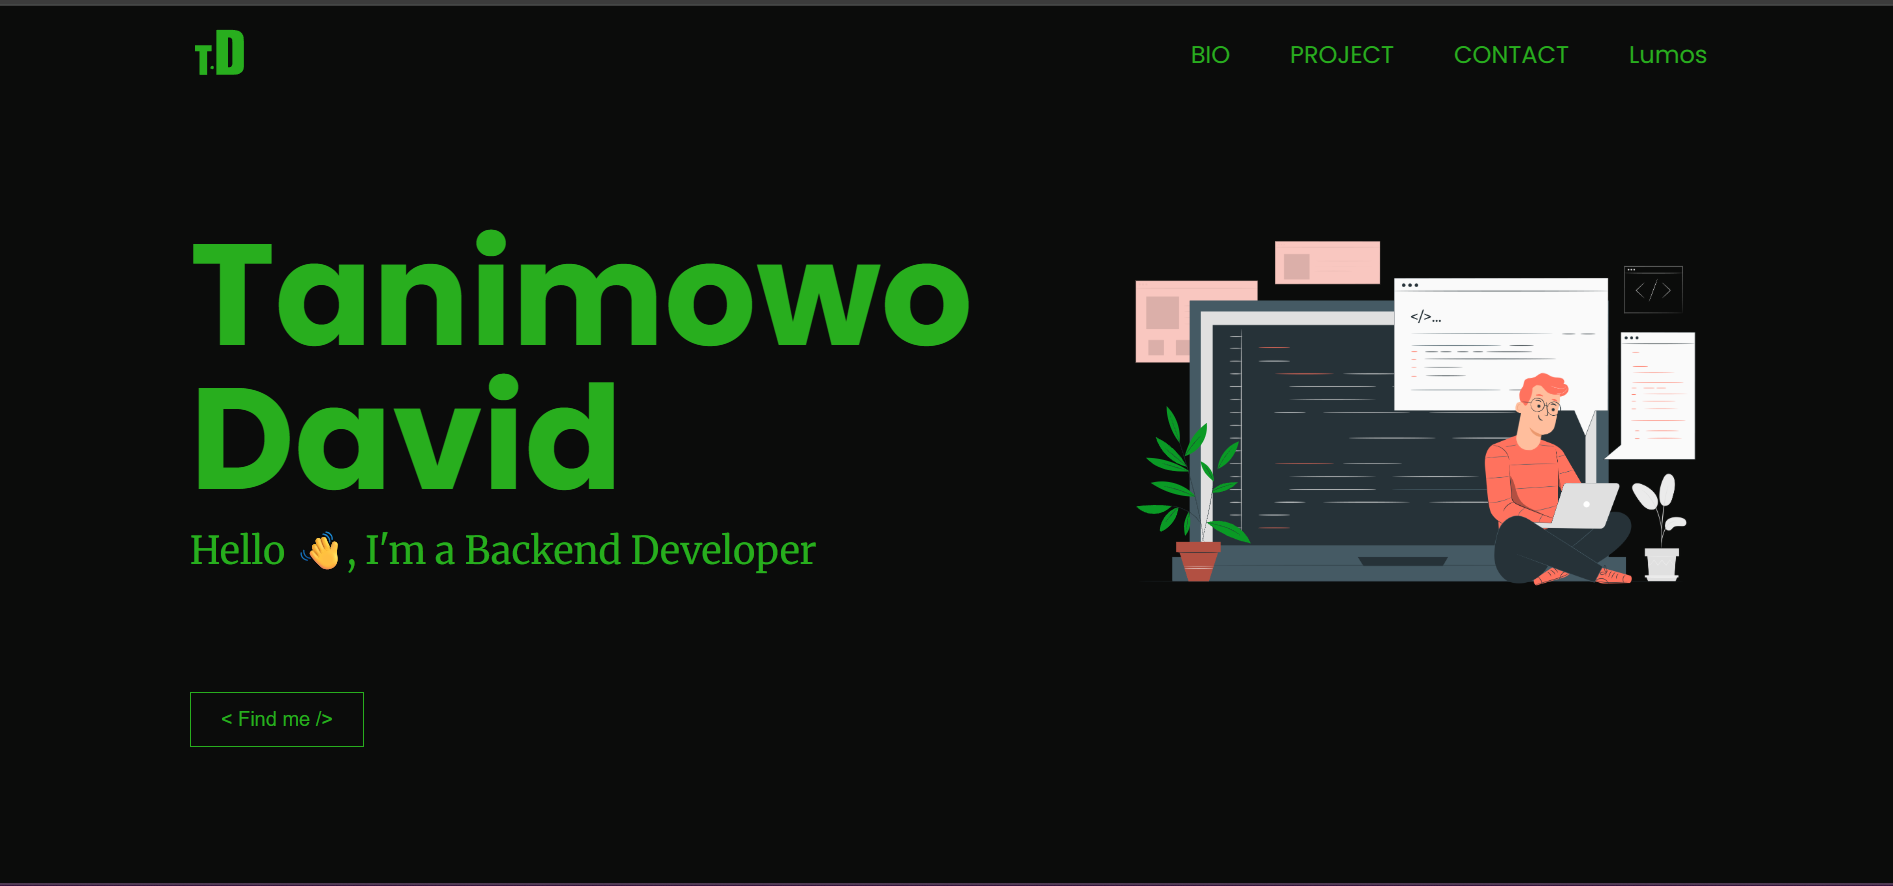
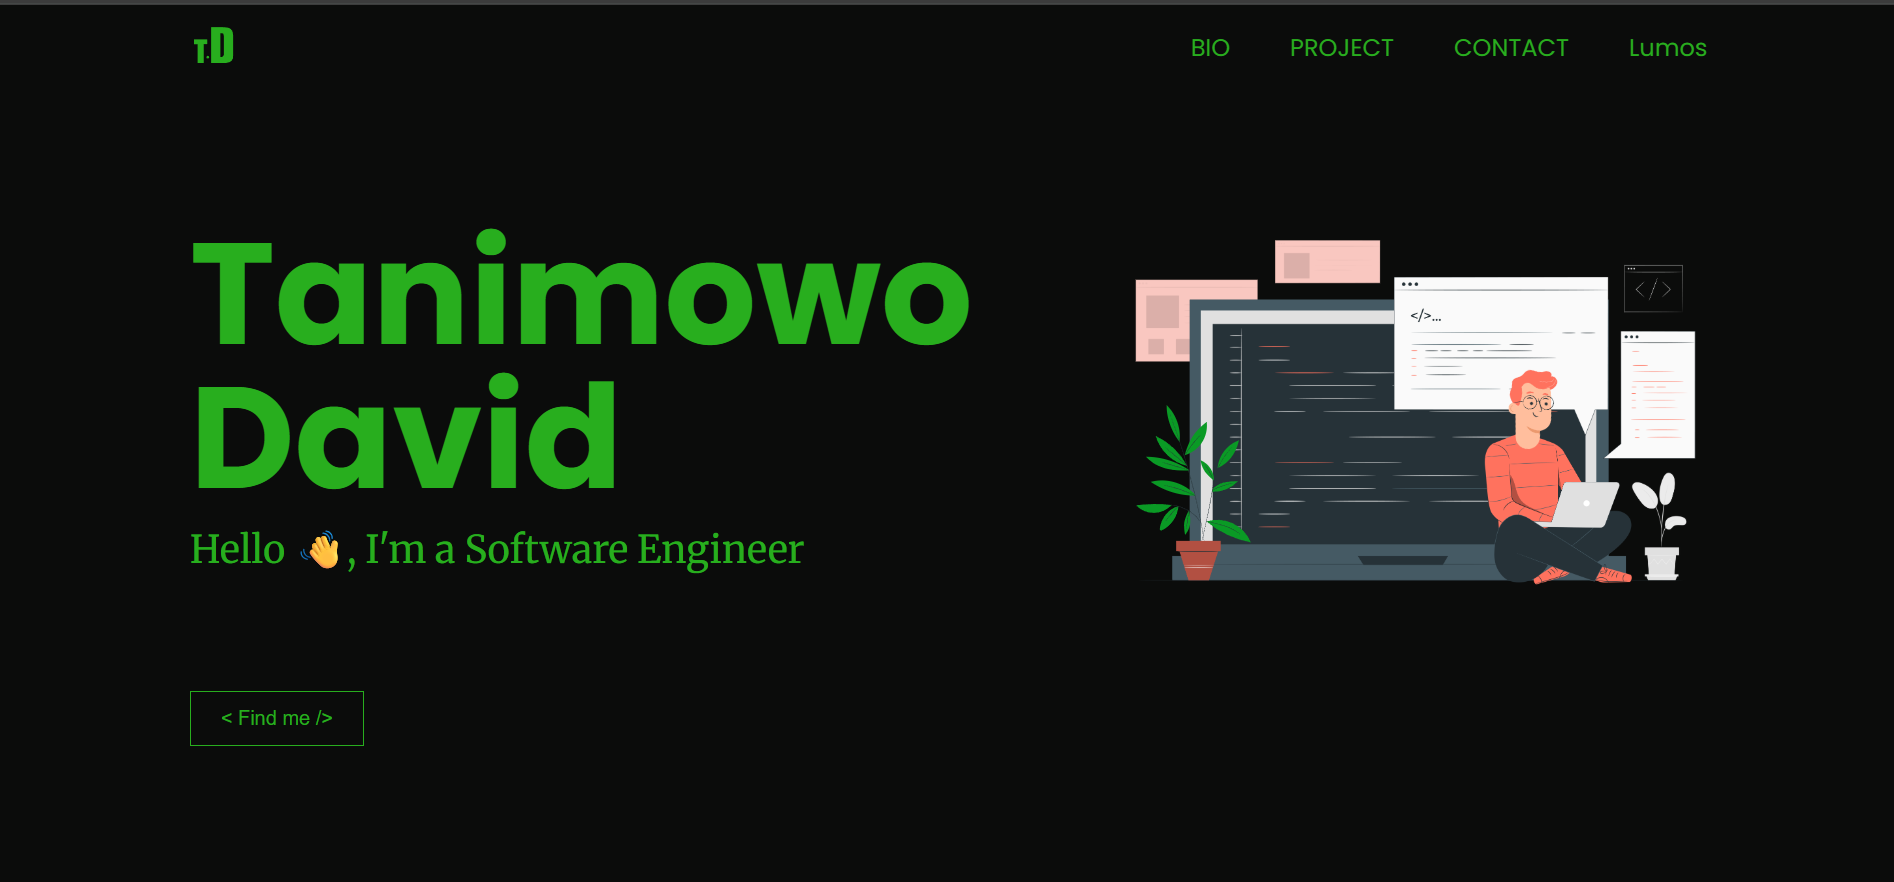
update readme

diff --git a/README.md b/README.md
@@ -1,0 +1,37 @@
+# Tanimowo David — Personal Website
+
+🔗 Live: [tanimowodavid.com](https://tanimowodavid.com)
+
+This repo powers my personal website.  
+It’s a simple portfolio built with **Flask**, and a touch of creativity.
+
+---
+
+## ✨ Highlights
+
+- Clean, responsive design inspired by social apps
+- Projects: RetireSmart (finance app), Task Manager API, and more
+- Visitor quote wall (last 3 quotes appear live)
+- Hosted with Gunicorn + Render
+
+---
+
+## 🛠 Tech
+
+- Python (Flask, SQLAlchemy)
+- HTML / CSS
+- PostgreSQL / SQLite
+
+---
+
+## 👋 About Me
+
+I’m **David**, a software engineer committed to continuous growth and impact. 🚀
+
+- Skilled in Python, Flask/Django, REST APIs, SQL
+- Electrical/Electronics Engineering background
+- Exploring ways to combine **creativity + backend development**
+
+---
+
+📬 Connect: [GitHub](https://github.com/tanimowodavid) • [Website](https://tanimowodavid.com)
